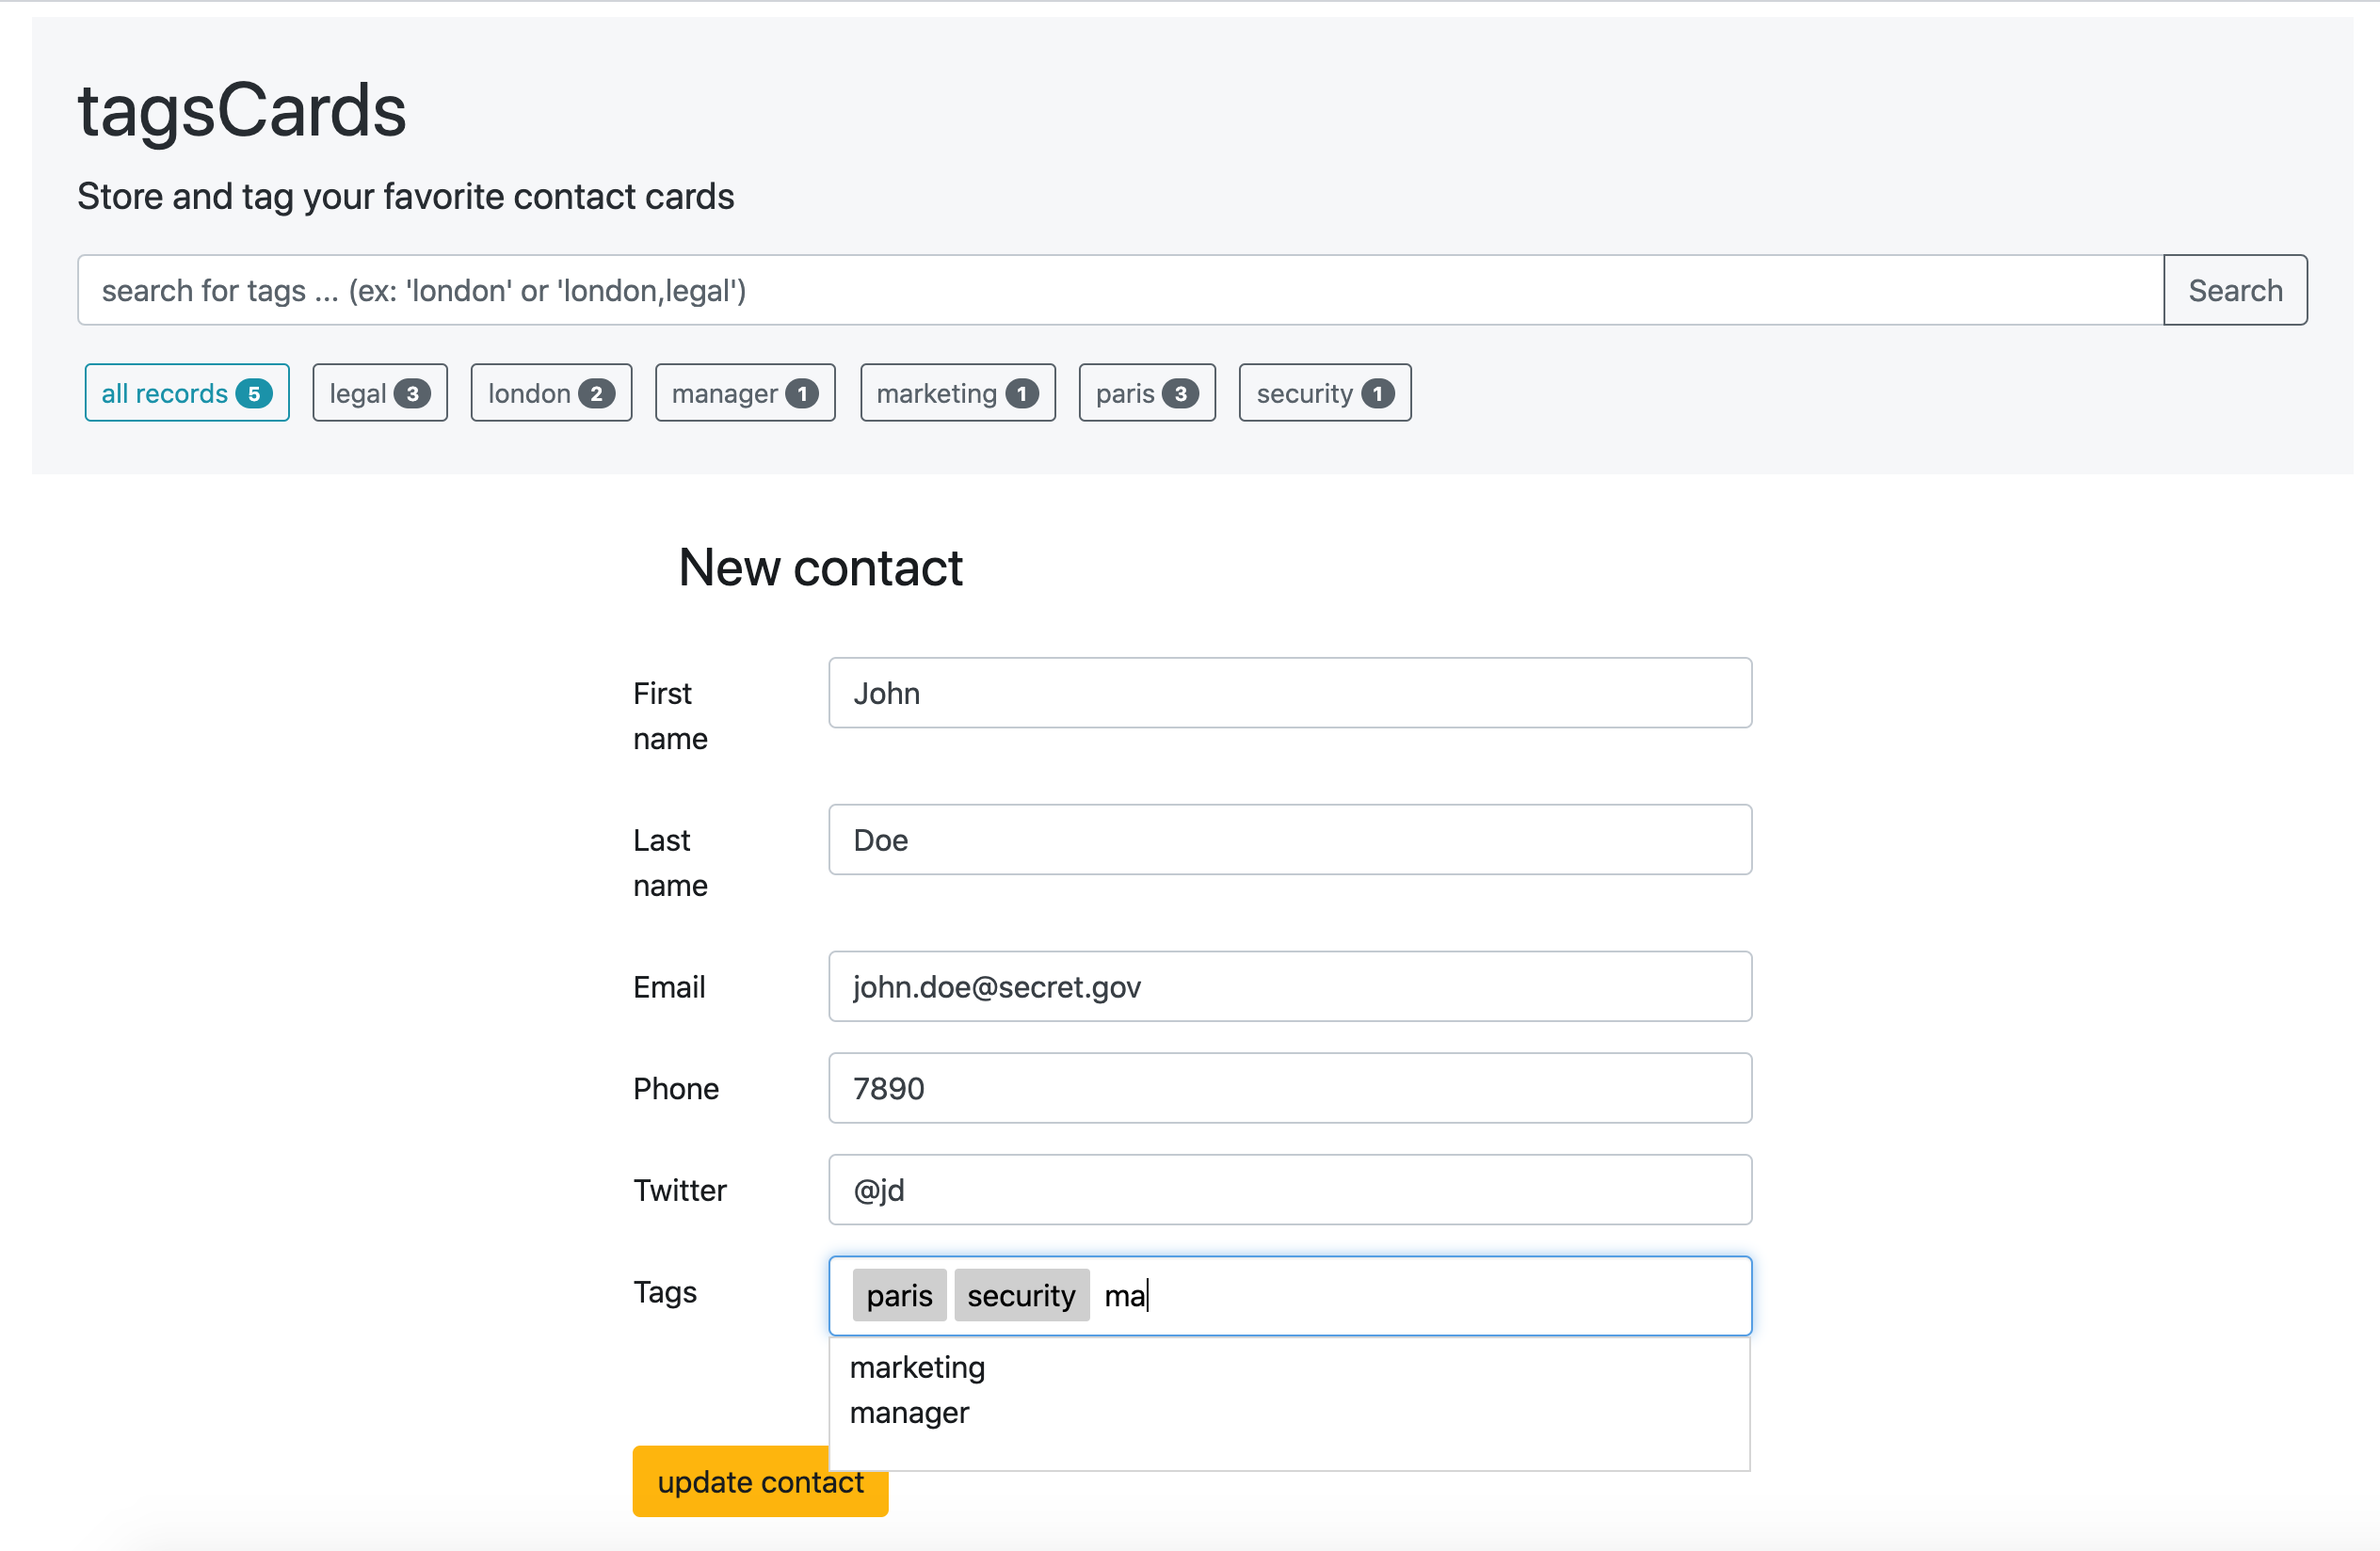
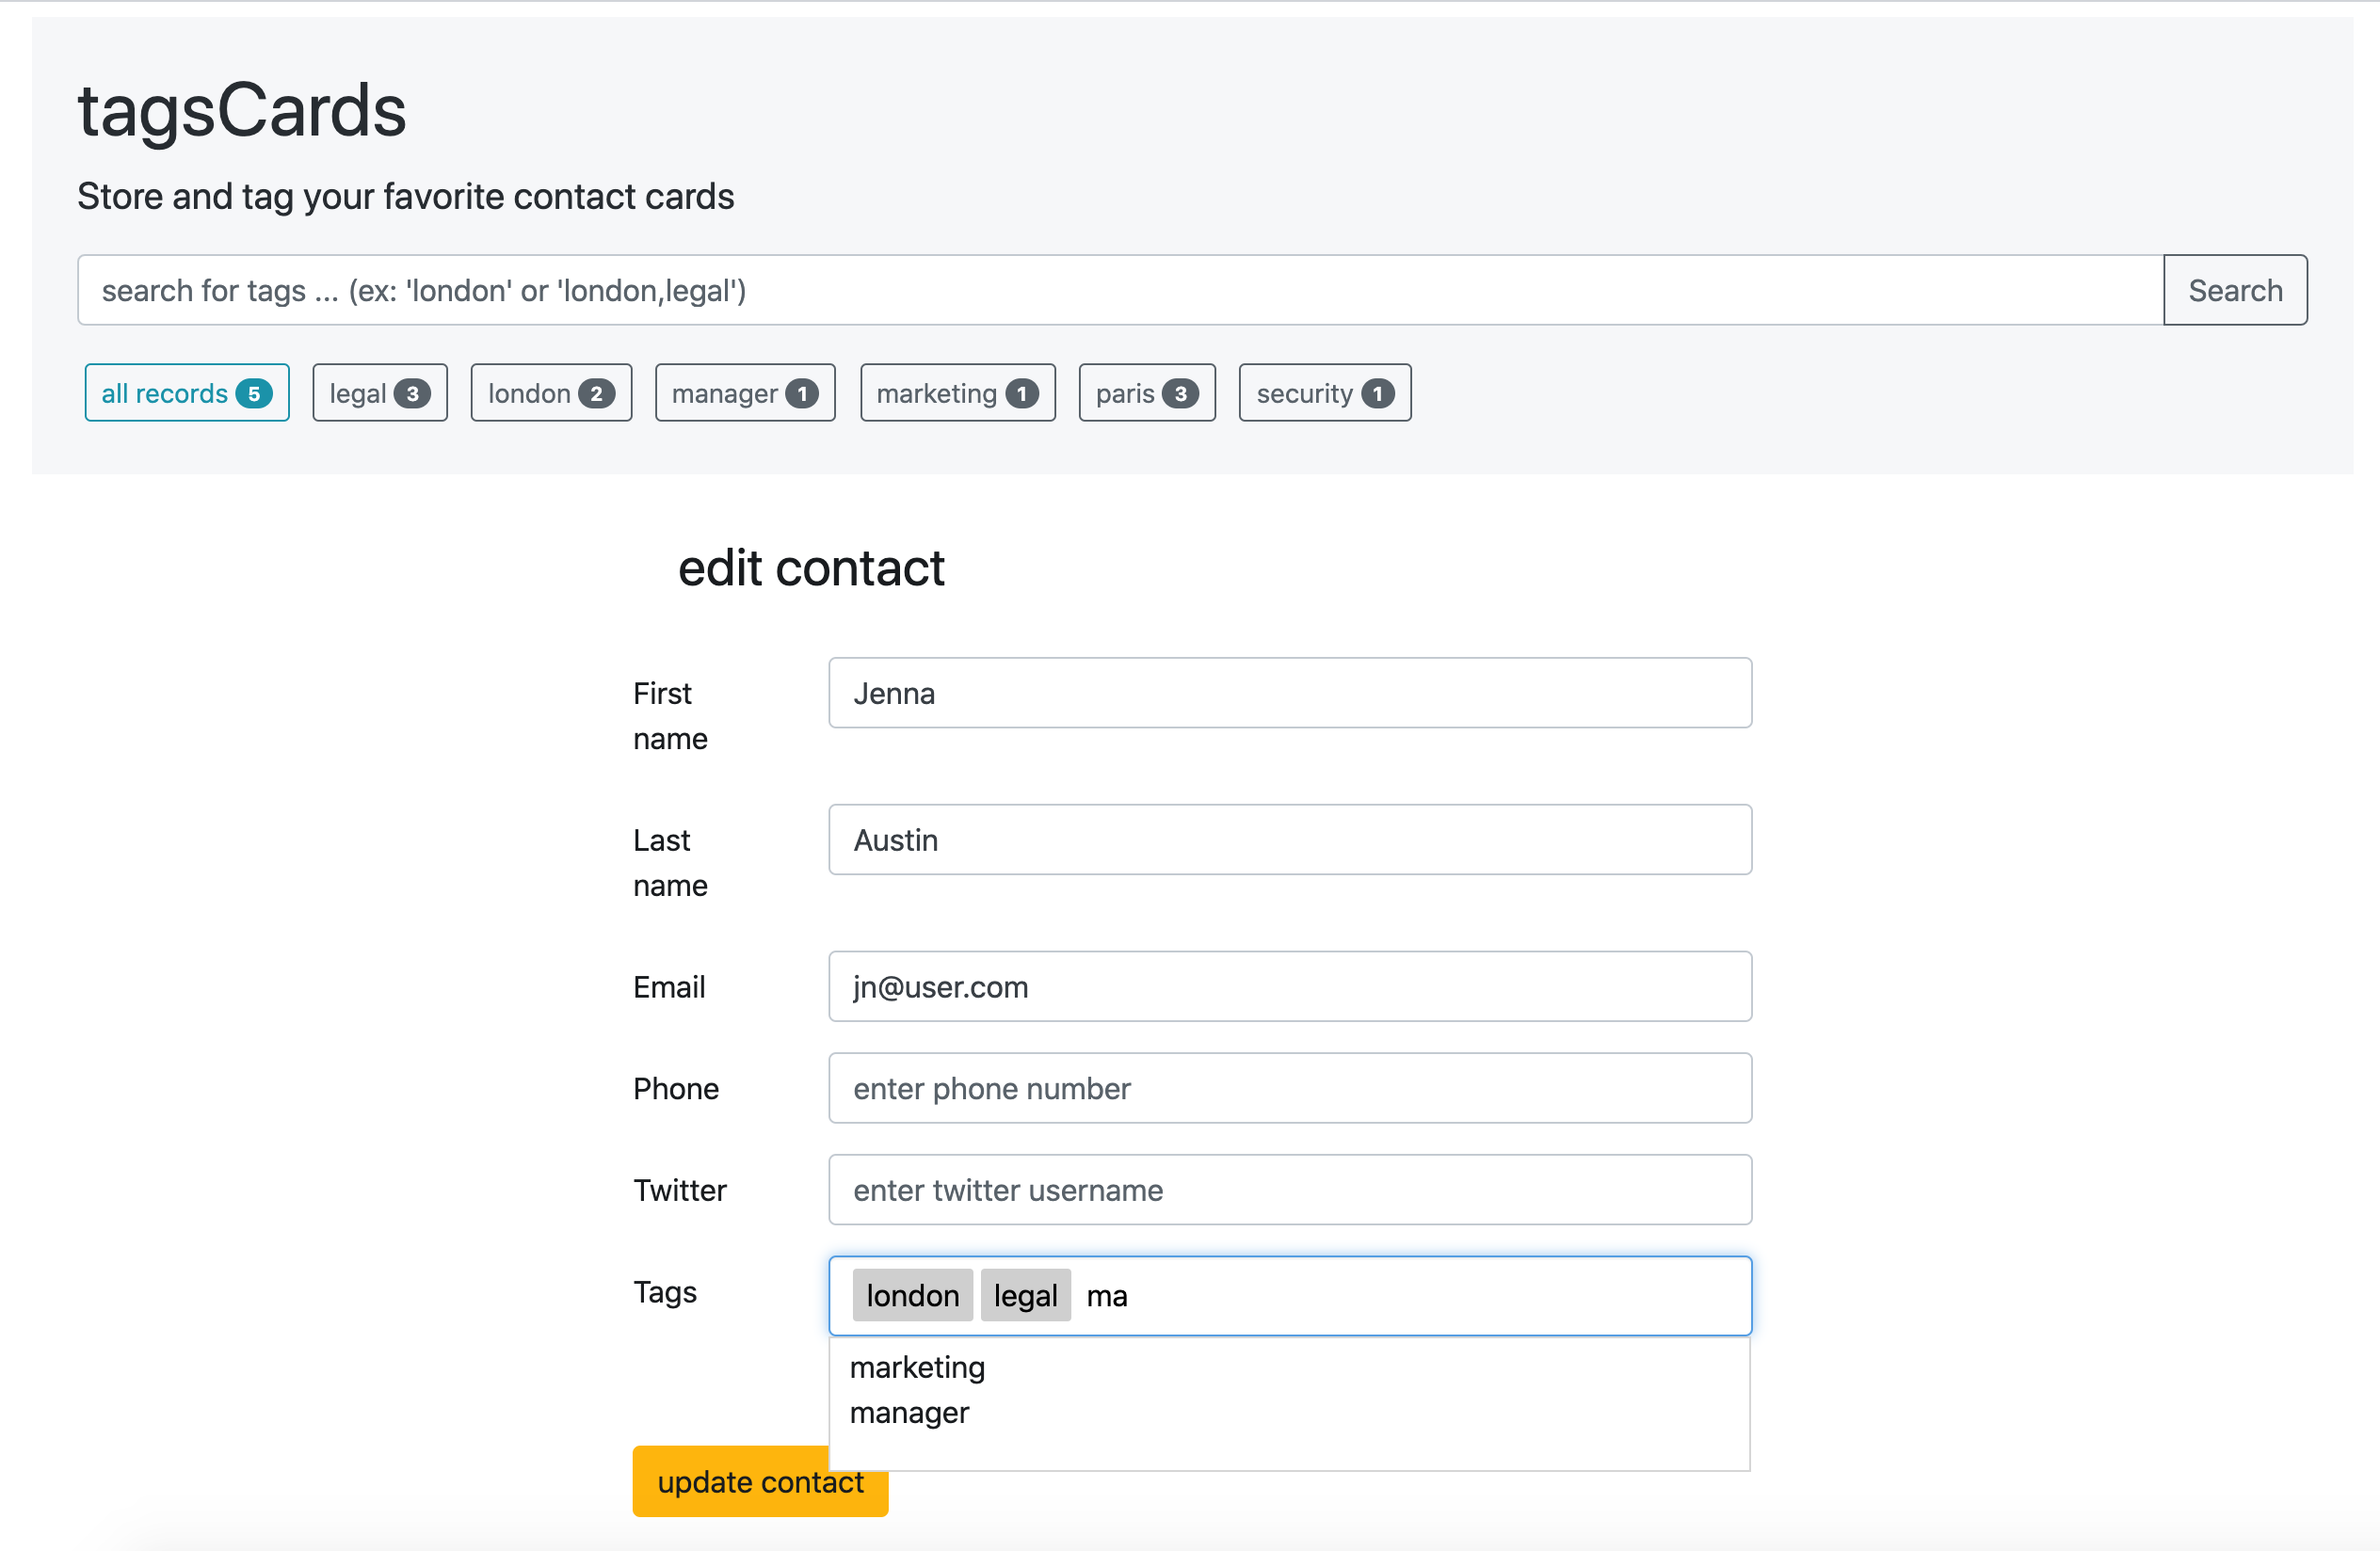
update samples

diff --git a/web/templates/contacts_edit.html b/web/templates/contacts_edit.html
@@ -2,7 +2,11 @@
 {% block content %}
 
 <form class="form col-md-6 offset-3" id="contacts_form" method="post">
-    <h3 class="p-4">New contact</h3>
+    {% if contact.id %}
+        <h3 class="p-4">edit contact</h3>
+    {% else %}
+      <h3 class="p-4">add contact</h3>
+    {% endif %}
     <div class="form-group row">
         <label for="contact_fname" class="col-sm-2 col-form-label">First name</label>
         <div class="col-sm-10">
